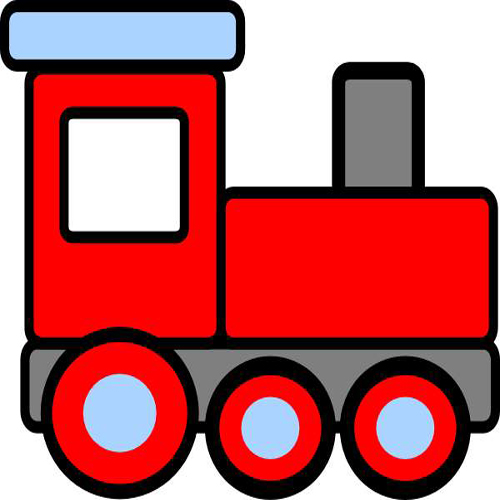
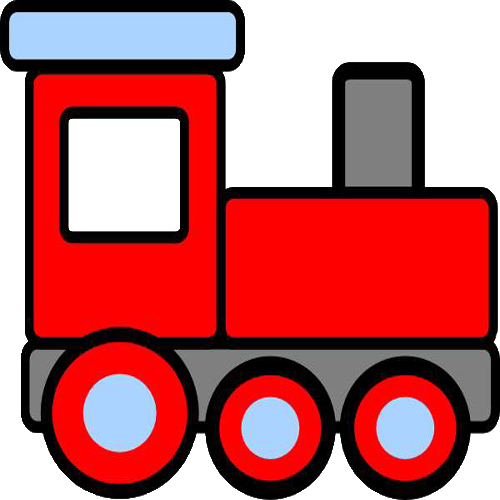
Updated transparent image for train

Changed region(s): [[0.99, 0.42, 1.0, 0.69], [0.21, 0.99, 0.24, 1.0]]

diff --git a/play.css b/play.css
@@ -81,9 +81,8 @@ html, body {
 }
 
 .tileTrainClass {
-    background-image: url('images/train.jpg');
+    background-image: url('images/train.png');
     background-size: 100%;
-    background-color: #009933;
     position: relative;
     z-index: 100;
 }
